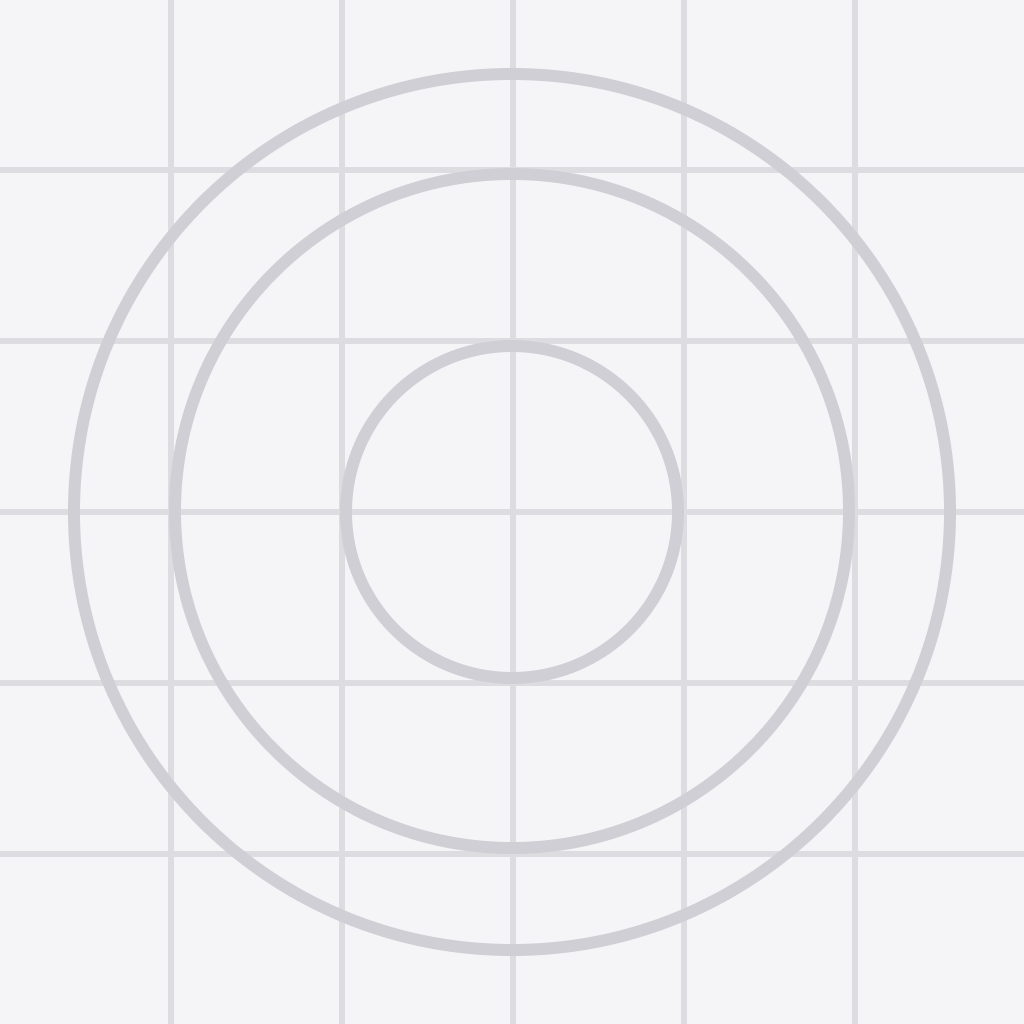
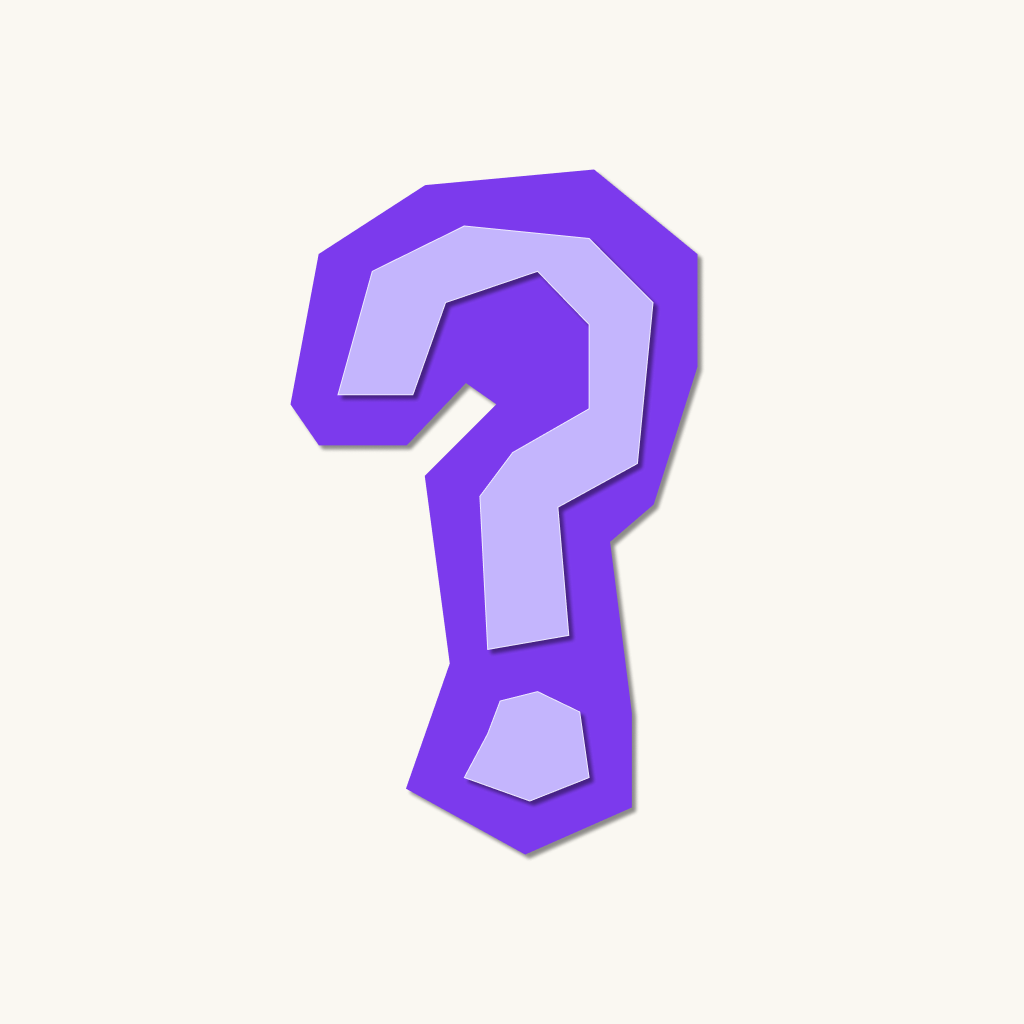
launched testflight build

diff --git a/app.config.js b/app.config.js
@@ -1,6 +1,6 @@
 export default ({ config }) => ({
   ...config,
-  name: 'Who What Where',
+  name: 'Who, What, Where?',
   slug: 'guess-who-app',
   version: '1.0.0',
   orientation: 'portrait',
@@ -15,14 +15,14 @@ export default ({ config }) => ({
   },
   ios: {
     supportsTablet: false,
-    bundleIdentifier: 'com.guesswho.app',
+    bundleIdentifier: 'com.whowhatwhere.app',
     infoPlist: {
       NSCameraUsageDescription: 'Used to take character and profile photos.',
       NSPhotoLibraryUsageDescription: 'Used to pick photos for custom characters.',
     },
   },
   android: {
-    package: 'com.guesswho.app',
+    package: 'com.whowhatwhere.app',
     adaptiveIcon: {
       foregroundImage: './assets/adaptive-icon.png',
       backgroundColor: '#0F172A',
@@ -71,7 +71,7 @@ export default ({ config }) => ({
     revenueCatAppleKey: process.env.EXPO_PUBLIC_REVENUECAT_APPLE_KEY,
     revenueCatGoogleKey: process.env.EXPO_PUBLIC_REVENUECAT_GOOGLE_KEY,
     eas: {
-      projectId: process.env.EAS_PROJECT_ID,
+      projectId: '063162b6-2bcb-4868-81f0-6369028dc5d2',
     },
   },
 });

diff --git a/app/(auth)/welcome.tsx b/app/(auth)/welcome.tsx
@@ -54,7 +54,7 @@ export default function Welcome() {
             <Text className="text-white text-4xl font-bold">?</Text>
           </View>
 
-          <Text className="text-white text-5xl font-bold text-center" style={{ fontFamily: 'Inter_700Bold' }}>Who What Where</Text>
+          <Text className="text-white text-5xl font-bold text-center" style={{ fontFamily: 'Inter_700Bold' }}>Who, What, Where?</Text>
           <Text style={{ color: 'rgba(255,255,255,0.8)', fontSize: 16, textAlign: 'center', maxWidth: 280, lineHeight: 24 }}>
             The classic guessing game, reimagined. Play with friends using any characters you can dream up.
           </Text>

diff --git a/app/paywall.tsx b/app/paywall.tsx
@@ -51,7 +51,7 @@ export default function Paywall() {
           <View className="w-16 h-16 rounded-2xl bg-accent items-center justify-center mb-4">
             <Text className="text-3xl">⭐</Text>
           </View>
-          <Text className="text-white text-3xl font-bold text-center">Who What Where Pro</Text>
+          <Text className="text-white text-3xl font-bold text-center">Who, What, Where? Pro</Text>
           <Text className="text-white/75 text-sm text-center mt-2 max-w-xs">
             Unlock the full experience with custom packs and the extended character pool
           </Text>

diff --git a/src/components/ui/JoinCodeDisplay.tsx b/src/components/ui/JoinCodeDisplay.tsx
@@ -13,7 +13,7 @@ export function JoinCodeDisplay({ code, label = 'Game Code' }: JoinCodeDisplayPr
   };
 
   const handleShare = async () => {
-    await Share.share({ message: `Join my Who What Where game! Code: ${code}` });
+    await Share.share({ message: `Join my Who, What, Where? game! Code: ${code}` });
   };
 
   const chars = code.split('');

diff --git a/PRODUCT_DOCS.md b/PRODUCT_DOCS.md
@@ -1,8 +1,8 @@
-# Who What Where — Product Documentation
+# Who, What, Where? — Product Documentation
 
 ## Overview
 
-Who What Where is a mobile-first multiplayer deduction game, a digital reimagining of the classic board game. Two players compete head-to-head, taking turns asking yes/no questions to identify their opponent's secret character from a shared board. The game supports custom character packs, real-time multiplayer, and a free/pro subscription model.
+Who, What, Where? is a mobile-first multiplayer deduction game, a digital reimagining of the classic board game. Two players compete head-to-head, taking turns asking yes/no questions to identify their opponent's secret character from a shared board. The game supports custom character packs, real-time multiplayer, and a free/pro subscription model.
 
 **Platform:** iOS & Android (React Native / Expo)  
 **Backend:** Supabase (PostgreSQL, Auth, Realtime, Storage)  